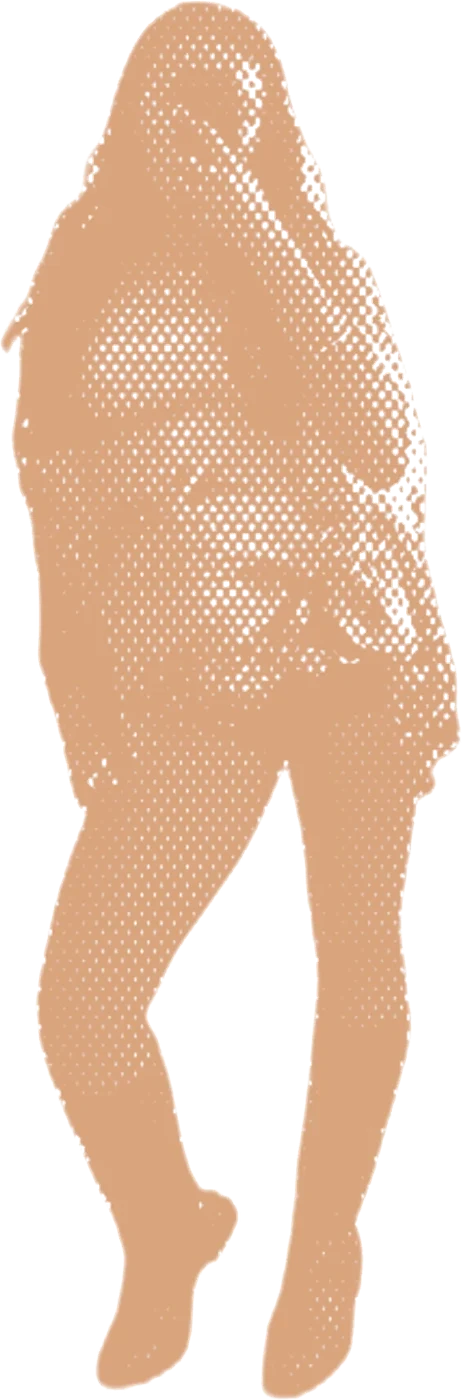
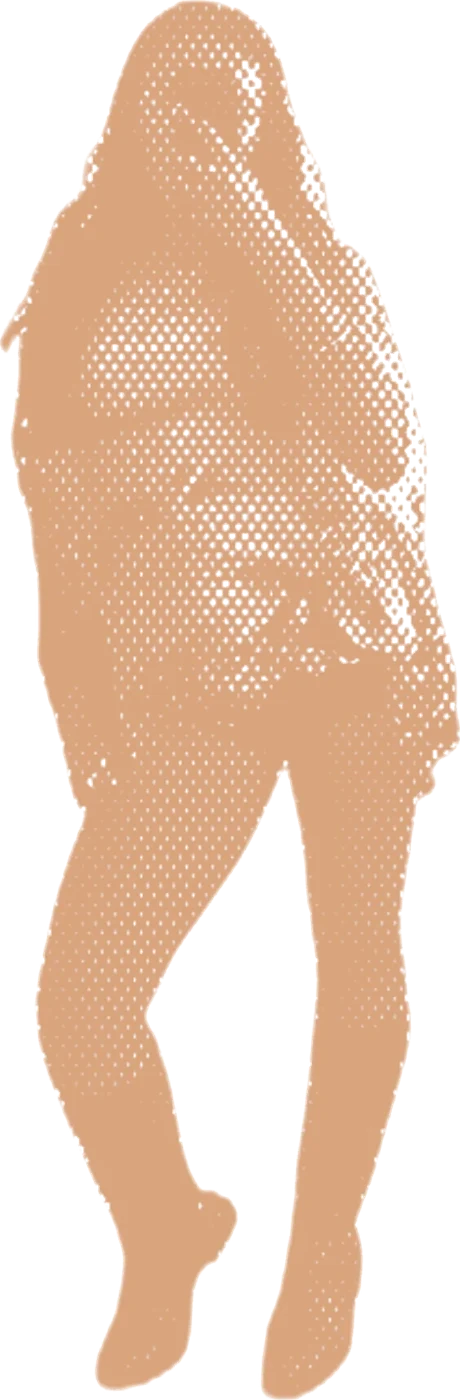
Add halftone figures to Home, Mix & Match and Saved Outfits
- Figures are now part of the page background: they scroll with the
  page and sit behind the top bar and page content
- Home: red figure bottom right; Mix & Match: green figure bottom left;
  Saved Outfits: olive figure on the left
- Left-side figures hide below 1200px wide, Home below 1000px, all on phones

Claude-Session: https://claude.ai/code/session_011UXyj8zoCiQoXk8dDapznf

diff --git a/src/index.css b/src/index.css
@@ -191,24 +191,75 @@ button.danger:hover:not(:disabled) {
   width: auto;
 }
 
-/* ---------- Page figures (large halftone cut-outs at the screen edge) ---------- */
-.page-figure {
-  position: fixed; /* stays put while the page scrolls */
-  z-index: 1; /* in front of the page, behind the top bar */
+/* ---------- Page figures (large halftone cut-outs in the page background) ---------- */
+/* The whole page (top bar + content) is the frame the figures are placed in */
+#root {
+  position: relative;
+  z-index: 0;
+  min-height: 100vh; /* short pages still fill the screen */
+  background: var(--paper); /* gives the scattered pieces' white a page colour to blend into */
+}
+
+/* Covers the whole page behind everything; trims figures at the page's bottom edge */
+.figure-layer {
+  position: absolute;
+  inset: 0;
+  z-index: -1; /* behind the top bar and all page content */
+  overflow: hidden;
   pointer-events: none; /* clicks go straight through */
+}
+
+/* Placed on the page (not the screen), so figures scroll away with the page */
+.page-figure {
+  position: absolute;
   height: auto;
 }
 
-/* Upload: right side, head tucked behind the top bar, legs run off the bottom */
+/* Home: bottom right, beside the link boxes */
+.page-figure.home {
+  right: -1vw;
+  bottom: 0;
+  width: 20vw;
+}
+
+/* Upload: right side, head tucked behind the top bar */
 .page-figure.upload {
   top: 20px;
   right: 5vw;
   width: 25vw;
 }
 
+/* Mix & Match: bottom left, cut off by the left edge */
+.page-figure.mixmatch {
+  left: -14vw;
+  bottom: 0;
+  width: 44vw;
+}
+
+/* Saved Outfits: left side, starting just under the top bar */
+.page-figure.outfits {
+  left: -3vw;
+  top: 6vw;
+  width: 23vw;
+}
+
+/* Smaller screens: the left-side figures would sit behind the text, so hide them */
+@media (max-width: 1200px) {
+  .page-figure.mixmatch,
+  .page-figure.outfits {
+    display: none;
+  }
+}
+
+@media (max-width: 1000px) {
+  .page-figure.home {
+    display: none;
+  }
+}
+
 /* Phones: no spare room at the edges, so hide the figures */
 @media (max-width: 700px) {
-  .page-figure {
+  .figure-layer {
     display: none;
   }
 }

diff --git a/src/components/PageFigure.tsx b/src/components/PageFigure.tsx
@@ -1,13 +1,25 @@
+import homeFigure from '../assets/figures/home.webp'
 import uploadFigure from '../assets/figures/upload.webp'
+import mixMatchFigure from '../assets/figures/mixmatch.webp'
+import outfitsFigure from '../assets/figures/outfits.webp'
 
-// The large halftone cut-out figures that sit at the edge of each page.
+// The large halftone cut-out figures in the background of each page.
 // To add one for another page: put the image in src/assets/figures/,
 // import it here, add it to FIGURES, and position it in index.css
 // with a `.page-figure.<name>` rule.
 const FIGURES = {
+  home: homeFigure,
   upload: uploadFigure,
+  mixmatch: mixMatchFigure,
+  outfits: outfitsFigure,
 }
 
 export default function PageFigure({ name }: { name: keyof typeof FIGURES }) {
-  return <img className={`page-figure ${name}`} src={FIGURES[name]} alt="" aria-hidden="true" />
+  return (
+    // The layer covers the whole page behind the content and trims
+    // anything that hangs past the bottom of the page
+    <div className="figure-layer" aria-hidden="true">
+      <img className={`page-figure ${name}`} src={FIGURES[name]} alt="" />
+    </div>
+  )
 }

diff --git a/src/pages/OutfitsPage.tsx b/src/pages/OutfitsPage.tsx
@@ -3,6 +3,7 @@ import { Link } from 'react-router-dom'
 import { useCloset } from '../ClosetContext'
 import OutfitCollage from '../components/OutfitCollage'
 import ScatteredPieces from '../components/ScatteredPieces'
+import PageFigure from '../components/PageFigure'
 
 export default function OutfitsPage() {
   const { outfits, deleteOutfit } = useCloset()
@@ -12,6 +13,7 @@ export default function OutfitsPage() {
 
   return (
     <section>
+      <PageFigure name="outfits" />
       <div className="page-header">
         <h1>Saved Outfits</h1>
         <ScatteredPieces layout="page" />

diff --git a/src/pages/MixMatchPage.tsx b/src/pages/MixMatchPage.tsx
@@ -4,6 +4,7 @@ import { useCloset } from '../ClosetContext'
 import OutfitCollage from '../components/OutfitCollage'
 import type { ClothingItem, Outfit } from '../types'
 import ScatteredPieces from '../components/ScatteredPieces'
+import PageFigure from '../components/PageFigure'
 
 interface SlotProps {
   label: string
@@ -71,6 +72,7 @@ export default function MixMatchPage() {
 
   return (
     <section>
+      <PageFigure name="mixmatch" />
       <div className="page-header">
         <h1>Mix &amp; Match</h1>
         <ScatteredPieces layout="page" />

diff --git a/src/pages/HomePage.tsx b/src/pages/HomePage.tsx
@@ -1,12 +1,14 @@
 import { Link } from 'react-router-dom'
 import { useCloset } from '../ClosetContext'
 import ScatteredPieces from '../components/ScatteredPieces'
+import PageFigure from '../components/PageFigure'
 
 export default function HomePage() {
   const { items, outfits } = useCloset()
 
   return (
     <section className="home">
+      <PageFigure name="home" />
       <div className="home-intro">
         <ScatteredPieces layout="home" />
         <h1>DIGI CLOSET</h1>

diff --git a/CLAUDE.md b/CLAUDE.md
@@ -17,7 +17,7 @@ The owner is a beginner (some Java, a little HTML/CSS). Keep code simple and rea
 - `src/components/OutfitCollage.tsx` – collage used on Mix & Match and Saved Outfits
 - `src/assets/logo.png` – the owner's logo, shown in the top bar
 - `src/components/ScatteredPieces.tsx` – random closet pieces scattered around page titles as decoration (hidden on phones)
-- `src/components/PageFigure.tsx` + `src/assets/figures/` – large halftone cut-out figures fixed at the screen edge of each page (positioned with `.page-figure.<name>` in index.css, hidden on phones)
+- `src/components/PageFigure.tsx` + `src/assets/figures/` – large halftone cut-out figures in the page background (scroll with the page, behind content; positioned with `.page-figure.<name>` in index.css; hidden on narrower screens)
 
 ## Commands
 - `npm run dev` – local dev server
